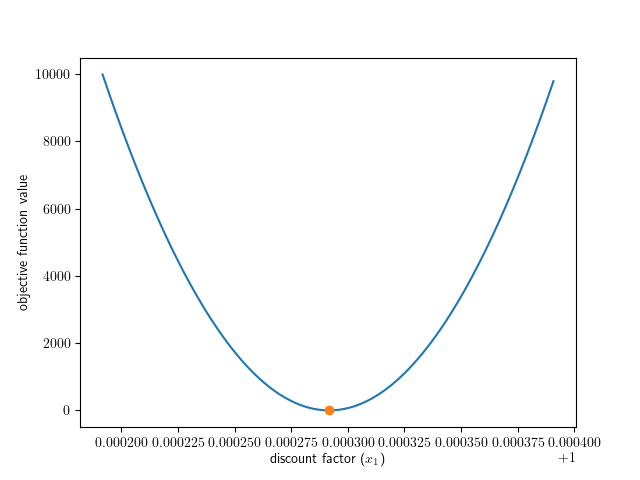
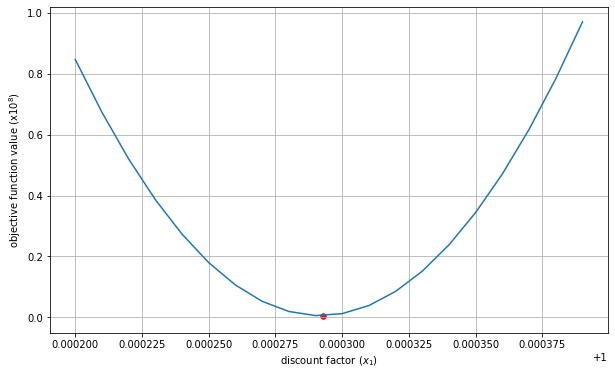
[UPD] Few updates

diff --git a/libro/lecture_7.tex b/libro/lecture_7.tex
@@ -641,7 +641,7 @@ This function is plotted in Fig.~\ref{fig:local_minima} in the range $[0, 2]$, a
 
 \begin{figure}[htb]
 	\centering
-	\includegraphics[width=0.7\textwidth]{figures/lesson4_39_0.png}
+	\includegraphics[width=0.7\textwidth]{figures/local_minima.png}
 \caption{Plot of an example function with many local minima. The red points highlights initial value and minimum found in a \emph{bad} minimization, green points for a good minimization.}
 \label{fig:local_minima}
 \end{figure}
@@ -749,10 +749,11 @@ So let's implement the method with the swaps we have just created, of course we 
 
     \begin{tcolorbox}[breakable, size=fbox, boxrule=1pt, pad at break*=1mm,colback=cellbackground, colframe=cellborder]
 \begin{Verbatim}[commandchars=\\\{\}]
+\PY{k+kn}{import} \PY{n+nn}{numpy} \PY{k}{as} \PY{n+nn}{np}
+
 \PY{k}{def} \PY{n+nf}{objective\PYZus{}function}\PY{p}{(}\PY{n}{x}\PY{p}{)}\PY{p}{:}
-    \PY{n}{curve} \PY{o}{=} \PY{n}{DiscountCurve}\PY{p}{(}\PY{n}{observation\PYZus{}date}\PY{p}{,}
-                          \PY{n}{pillar\PYZus{}dates}\PY{p}{,}
-                          \PY{n}{x}\PY{p}{)}
+    \PY{n}{x} \PY{o}{=} \PY{n}{np}\PY{o}{.}\PY{n}{insert}\PY{p}{(}\PY{n}{x}\PY{p}{,} \PY{l+m+mi}{0}\PY{p}{,} \PY{l+m+mi}{1}\PY{p}{)}
+    \PY{n}{curve} \PY{o}{=} \PY{n}{DiscountCurve}\PY{p}{(}\PY{n}{observation\PYZus{}date}\PY{p}{,} \PY{n}{pillar\PYZus{}dates}\PY{p}{,} \PY{n}{x}\PY{p}{)}
     
     \PY{n}{sum\PYZus{}sq} \PY{o}{=} \PY{l+m+mf}{0.0}
     \PY{k}{for} \PY{n}{swap} \PY{o+ow}{in} \PY{n}{swaps}\PY{p}{:}
@@ -763,16 +764,12 @@ So let's implement the method with the swaps we have just created, of course we 
 
 \item
   set the initial value of the discount factors (\(x_i^0\)) to 1 with a
-  range of variability \([ 0.01, 10]\), in addition the first element of
-  the list, today's discount factor, will be fixed to 1 (variability
-  \([1, 1]\))
+  range of variability \([ 0.01, 10]\), remember the first discount factor, today's discount factor, will be fixed to 1 (so not included in the list)
 
     \begin{tcolorbox}[breakable, size=fbox, boxrule=1pt, pad at break*=1mm,colback=cellbackground, colframe=cellborder]
 \begin{Verbatim}[commandchars=\\\{\}]
-\PY{n}{x0} \PY{o}{=} \PY{p}{[}\PY{l+m+mf}{1.0} \PY{k}{for} \PY{n}{i} \PY{o+ow}{in} \PY{n+nb}{range}\PY{p}{(}\PY{n+nb}{len}\PY{p}{(}\PY{n}{pillar\PYZus{}dates}\PY{p}{)}\PY{p}{)}\PY{p}{]}
-
-\PY{n}{bounds} \PY{o}{=} \PY{p}{[}\PY{p}{(}\PY{l+m+mf}{0.01}\PY{p}{,} \PY{l+m+mf}{10.0}\PY{p}{)} \PY{k}{for} \PY{n}{i} \PY{o+ow}{in} \PY{n+nb}{range}\PY{p}{(}\PY{n+nb}{len}\PY{p}{(}\PY{n}{pillar\PYZus{}dates}\PY{p}{)}\PY{p}{)}\PY{p}{]}
-\PY{n}{bounds}\PY{p}{[}\PY{l+m+mi}{0}\PY{p}{]} \PY{o}{=} \PY{p}{(}\PY{l+m+mf}{1.0}\PY{p}{,} \PY{l+m+mf}{1.0}\PY{p}{)}
+\PY{n}{x0} \PY{o}{=} \PY{p}{[}\PY{l+m+mf}{1.0} \PY{k}{for} \PY{n}{i} \PY{o+ow}{in} \PY{n+nb}{range}\PY{p}{(}\PY{n+nb}{len}\PY{p}{(}\PY{n}{pillar\PYZus{}dates}\PY{p}{)-1}\PY{p}{)}\PY{p}{]}
+\PY{n}{bounds} \PY{o}{=} \PY{p}{[}\PY{p}{(}\PY{l+m+mf}{0.01}\PY{p}{,} \PY{l+m+mf}{10.0}\PY{p}{)} \PY{k}{for} \PY{n}{i} \PY{o+ow}{in} \PY{n+nb}{range}\PY{p}{(}\PY{n+nb}{len}\PY{p}{(}\PY{n}{pillar\PYZus{}dates}\PY{p}{)-1}\PY{p}{)}\PY{p}{]}
 \end{Verbatim}
 \end{tcolorbox}
 
@@ -789,32 +786,32 @@ So let's implement the method with the swaps we have just created, of course we 
 \end{Verbatim}
 \end{tcolorbox}
 
-    \begin{Verbatim}[commandchars=\\\{\}]
-      fun: 0.000819919032900304
- hess\_inv: <34x34 LbfgsInvHessProduct with dtype=float64>
-      jac: array([ 6.58948735e+05, -1.58720803e+01, -6.53143264e+01,
--1.03323232e+02,
-       -1.26050260e+02, -1.31748898e+02, -1.20374599e+02, -9.15399651e+01,
-       -4.24363322e+01,  2.44903182e+01,  1.14345243e+02,  2.22002243e+02,
-       -3.72021700e+00,  4.21398633e+01,  4.21787852e+01,  4.22369487e+01,
-        4.23327026e+01,  4.31814758e+01,  4.44924460e+01,  4.62078978e+01,
-        4.82906823e+01, -3.69972738e+00, -1.42454702e+00,  7.53771932e-01,
-        2.79741018e+00,  4.62896699e+00,  6.24844054e+00,  9.93101553e+00,
-        1.31122434e+01,  1.42880909e+01,  1.48279215e+01,  1.50787019e+01,
-        1.43267935e+01,  1.38451324e+01])
-  message: b'CONVERGENCE: REL\_REDUCTION\_OF\_F\_<=\_FACTR*EPSMCH'
-     nfev: 840
-      nit: 7
-   status: 0
-  success: True
-        x: array([1.        , 1.00030147, 1.00058831, 1.00089012, 1.00119726,
-       1.00147996, 1.00178743, 1.00208107, 1.00238467, 1.00267865,
-       1.00298261, 1.00327737, 1.00357104, 1.00357104, 1.00355063,
-       1.00352002, 1.00346901, 1.00302007, 1.00232627, 1.00141821,
-       1.00031629, 0.99911234, 0.99790839, 0.99675545, 0.99567393,
-       0.99470465, 0.9938476 , 0.99189884, 0.99021534, 0.98959296,
-       0.98930728, 0.98917464, 0.98957256, 0.98982763])
-    \end{Verbatim}
+\begin{Verbatim}[commandchars=\\\{\}]
+     fun: 5.664309920943246e-11
+hess\_inv: <33x33 LbfgsInvHessProduct with dtype=float64>
+     jac: array([ 1.78605857e-06,  1.78239285e-06,  1.77323586e-06, 1.75879424e-06,
+                  1.73845034e-06,  1.71267931e-06,  1.68038550e-06,  1.64182701e-06,
+                  1.59838300e-06,  1.54698277e-06,  1.49265186e-06, -6.58375189e-06,
+                  7.28841883e-07,  6.16505235e-07,  4.56400327e-07, -5.64392219e-06,
+                  -5.31643989e-06, -4.71149022e-06, -3.78570307e-06, -2.63266266e-06,
+                  -1.42051977e-06, -3.61765738e-07,  4.59317245e-07,  9.58597316e-07,
+                  1.13263640e-06,  9.33881847e-07, -4.82943088e-07, -1.42632424e-06,
+                  -1.32018367e-06,  8.94617464e-07,  3.26605625e-06,  3.85455055e-06,
+                  3.70505916e-06])
+ message: b'CONVERGENCE: NORM\_OF\_PROJECTED\_GRADIENT\_<=\_PGTOL'
+    nfev: 238
+     nit: 5
+    njev: 7
+  status: 0
+ success: True
+       x: array([1.00029264, 1.00056991, 1.00087164, 1.00116891, 1.00147108,
+                 1.00176872, 1.00207212, 1.0023757 , 1.00266965, 1.00297358,
+                 1.00325855, 1.00355787, 1.00444048, 1.00530013, 1.00614291,
+                 1.0069277 , 1.00905927, 1.00931737, 1.00709917, 1.00189725,
+                 0.99379431, 0.98332951, 0.97101025, 0.95723215, 0.94268921,
+                 0.92772585, 0.88314844, 0.81781058, 0.76554778, 0.71988695,
+                 0.64350769, 0.59282139, 0.54547479])
+\end{Verbatim}
 \end{itemize}
 
 Printing the result gives us the a lot of information about the minimisation just performed, the most useful are:
@@ -832,11 +829,11 @@ Another useful check to perform in order to understand if everything went fine, 
 \PY{n+nb}{print} \PY{p}{(}\PY{l+s+s2}{\PYZdq{}}\PY{l+s+s2}{Initial objective function value }\PY{l+s+s2}{\PYZdq{}}\PY{p}{,} \PY{n}{objective\PYZus{}function}\PY{p}{(}\PY{n}{x0}\PY{p}{)}\PY{p}{)}
 \PY{n+nb}{print} \PY{p}{(}\PY{l+s+s2}{\PYZdq{}}\PY{l+s+s2}{Final objective function value }\PY{l+s+s2}{\PYZdq{}}\PY{p}{,} \PY{n}{objective\PYZus{}function}\PY{p}{(}\PY{n}{result}\PY{o}{.}\PY{n}{x}\PY{p}{)}\PY{p}{)}
 
-Initial objective function value  931188216.6666666
-Final objective function value  0.000819919032900304
+Initial objective function value  26.27213544937082
+Final objective function value  5.664309920943246e-11
     \end{Verbatim}
 \end{tcolorbox}
-The objective function at the end of the minimisation is not exactly 0 (and rarely it will be) but its value is small enough for us to be satisfied, we started with $10^{10}$ and now it is $10^{-4}$ so 14 orders of magnitude smaller. This means that with the derived discount curve the NPV's of our OIS won't be identically 0 but so small that we can consider them as they were.
+The objective function at the end of the minimisation is not exactly 0 (and rarely it will be) but its value is small enough for us to be satisfied, we started with $30$ and now it is $10^{-11}$ so 13 orders of magnitude smaller. This means that with the derived discount curve the NPV's of our OIS won't be identically 0 but so small that we can consider them as they were.
 
 It can be very useful to also look at some diagnostic plots to check if the minimization was successful. Figure~\ref{fig:minimization_diagnostic} reports on the left the objective function value as a function of discount factor $(x_1)$; clearly we have found a minimum (the orange point represent $x_1$ value at the end of the minimization). On the right instead, the value of the objective function at each iteration is shown, its value is decreasing dramatically (notice that the $y$ axis is drawn in log scale).
 
@@ -854,20 +851,22 @@ our swaps (see Fig.~\ref{fig:discount_curve}) and try to compute some implied ra
 \begin{tcolorbox}[breakable, size=fbox, boxrule=1pt, pad at break*=1mm,colback=cellbackground, colframe=cellborder]
 \begin{Verbatim}[commandchars=\\\{\}]
 \PY{k+kn}{from} \PY{n+nn}{math} \PY{k}{import} \PY{n}{log}
-\PY{n}{curve} \PY{o}{=} \PY{n}{DiscountCurve}\PY{p}{(}\PY{n}{observation\PYZus{}date}\PY{p}{,} \PY{n}{pillar\PYZus{}dates}\PY{p}{,} \PY{n}{result}\PY{o}{.}\PY{n}{x}\PY{p}{)}
+
+\PY{n}{dfs} \PY{o}{=} \PY{n}{np}\PY{o}{.}\PY{n}{insert}\PY{p}{(}\PY{n}{result}\PY{o}{.}\PY{n}{x}\PY{p}{,} \PY{l+m+mi}{0}\PY{p}{,} \PY{l+m+mi}{1}\PY{p}{)}
+\PY{n}{curve} \PY{o}{=} \PY{n}{DiscountCurve}\PY{p}{(}\PY{n}{observation\PYZus{}date}\PY{p}{,} \PY{n}{pillar\PYZus{}dates}\PY{p}{,} \PY{n}{dfs}\PY{p}{)}
 
 \PY{n}{d} \PY{o}{=} \PY{n}{date}\PY{p}{(}\PY{l+m+mi}{2059}\PY{p}{,} \PY{l+m+mi}{11}\PY{p}{,} \PY{l+m+mi}{23}\PY{p}{)}
 \PY{n+nb}{print} \PY{p}{(}\PY{l+s+s2}{\PYZdq{}}\PY{l+s+s2}{40y df: }\PY{l+s+si}{\PYZob{}\PYZcb{}}\PY{l+s+s2}{\PYZdq{}}\PY{o}{.}\PY{n}{format}\PY{p}{(}\PY{n}{curve}\PY{o}{.}\PY{n}{df}\PY{p}{(}\PY{n}{d}\PY{p}{)}\PY{p}{)}\PY{p}{)}
 \PY{n+nb}{print} \PY{p}{(}\PY{l+s+s2}{\PYZdq{}}\PY{l+s+s2}{40y rate: }\PY{l+s+si}{\PYZob{}\PYZcb{}}\PY{l+s+s2}{\PYZdq{}}\PY{o}{.}\PY{n}{format}\PY{p}{(}\PY{o}{\PYZhy{}}\PY{n}{log}\PY{p}{(}\PY{n}{curve}\PY{o}{.}\PY{n}{df}\PY{p}{(}\PY{n}{d}\PY{p}{)}\PY{p}{)} \PY{o}{/} \PY{l+m+mi}{40}\PY{p}{)}\PY{p}{)}             
 
-40y df: 0.9891780176191146
-40y rate: 0.0002720241491103593
-    \end{Verbatim}
+40y df: 0.6454865298509954
+40y rate: 0.01094377341721375
+\end{Verbatim}
 \end{tcolorbox}
 
 \begin{figure}[htb]
   \centering
-  \includegraphics[width=0.7\textwidth]{figures/bootstrap_23_0.png}
+  \includegraphics[width=0.7\textwidth]{figures/example_discount_curve.png}
   \caption{Plot of the discount curve implied by Overnight Index Swap market quotes.}
   \label{fig:discount_curve}
 \end{figure}
